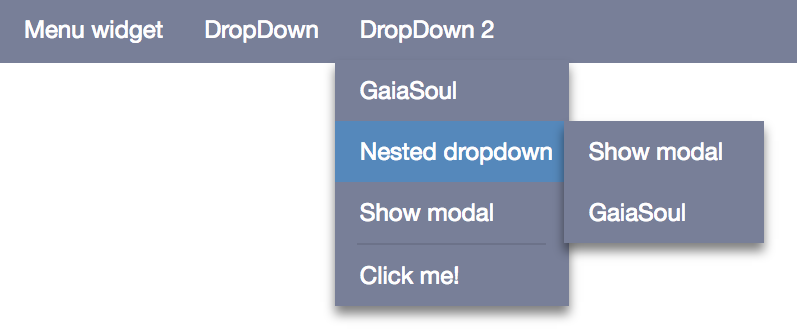
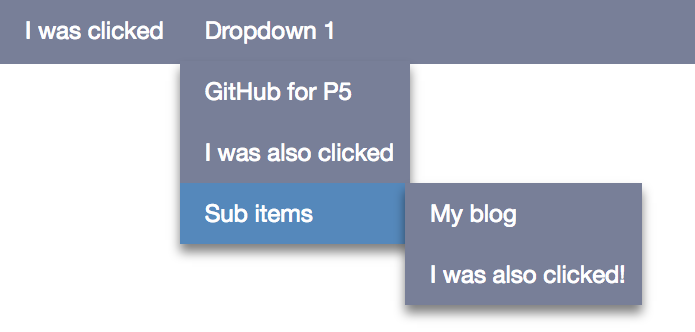
Better dox

diff --git a/README.md b/README.md
@@ -3,7 +3,7 @@
 Micro is a microscopic CSS framework. It can be used stand alone as a pure CSS framework, but is 
 also a perfect companion with [Phosphorus Five](https://github.com/polterguy/phosphorusfive). 
 It was created because of Bootstrap being too big, and other smaller framework not having the 
-necessary features, and most of the CSS framework were too JavaScript centric - Including Bootstrap.
+necessary features. Most of the existing CSS framework were also too JavaScript centric - Including Bootstrap.
 
 **Notice**, Micro does *not* mix well with Bootstrap, which among other things implies that
 none of these examples can be seen very well in System42's Executor. If you wish to reproduce
@@ -14,8 +14,8 @@ Micro creates a default layout, not based upon CSS classes for the most parts, w
 mix well with other CSS frameworks, such as e.g. Bootstrap. It is tiny in size, and contains most
 of the widgets you'll need in your day to day work with Phosphorus Five. It contains 2 CSS files.
 
-* _"/micro/media/main.css"_ Styles most common elements, such as buttons, checkboxes, etc.
-* _"/micro/media/ext.css"_ Styles the extension widgets, such as the modal widget, tab widget, etc.
+* _"/micro/media/main.css"_ - Styles most common elements, such as buttons, checkboxes, etc.
+* _"/micro/media/ext.css"_ - Styles the extension widgets, such as the modal widget, tab widget, etc.
 
 ## General layout
 
@@ -24,6 +24,8 @@ to them. This means that it becomes tiny, while at the same time, leaving the de
 Below is a screenshot of what you may expect.
 
 ![alt screenshot](screenshots/screenshot-1.png)
+
+As you can see, there are no fancy fonts, and little layout in general, since Micro only solves the bare minimum expected from every page you create - Leaving the rest up to you to explicitly solve as you wish. This implies that it doesn't _"end up as much in your way"_, as you apply your own custom design to your site, as you see fit. This trait of Micro also results in a __tiny__ bandwidth consumption.
 
 In addition to a general sane default styling of your HTML elements, most form HTML elements also have some styling for you, that
 will create a sane starting ground for your web apps. Below is another screenshot showing you what you may expect.
@@ -36,7 +38,7 @@ also obviously be instantiated as stand-alone elements.
 The color profile of Miro is easily overridden by changing a couple of CSS variables, allowing you to change the colors of all elements,
 by changing only a handful of variables.
 
-### Grid system
+## Grid system
 
 Micro has its own grid system based upon the _"flexbox"_ model. This means among other things, that you can create as many or as few
 columns as you wish in your page. Below is some example code that will create two rows, with a different set of columns each.
@@ -78,12 +80,12 @@ total available width, according to how many columns you add to a specific row.
 The _"container"_ element will have a maximum width of 1120px and automatic margins to the left and right. The _"container-fullscreen"_ will 
 use all available width. You can have as many containers as you wish on your page, and as many rows as you wish inside of each container.
 
-#### Responsive rendering
+### Responsive rendering
 
 Micro does feature _"responsive rendering"_, which means that if your screen resolution drops below 800px, each column, regardless of its definition,
 will automatically pop out, and require 100% of the available width. Micro is created with the _"mobile first"_ approach.
 
-#### Explicit column width
+### Explicit column width
 
 You can also explicitly set a column's width, with one of the following CSS classes.
 
@@ -122,7 +124,7 @@ create-widget
 
 The total width of your columns must result in 100. If it exceeds 100, it will wrap the next column unto the next line.
 
-### Form elements
+## Form elements
 
 Most form elements can simply be instantiated, without any CSS classes associated with them, and they will render with the style
 associated with them correctly. If you wish, you can also add any form elements inside of a _"strip"_, which will make all
@@ -160,140 +162,6 @@ create-widget
 The above will result in something resembling the following.
 
 ![alt screenshot](screenshots/screenshot-3.png)
-
-## Menu navbar navigation
-
-Micro will create CSS rules for the _"nav"_ element, allowing you to easily create a menu or navigation menu for your pages. Notice, you'll need
-to include _"ext.css"_ for the navbar to be rendered correctly. This allows you to create responsive menus for your page. Below is an example.
-
-```
-p5.web.include-css-file:@MICRO/media/main.css
-p5.web.include-css-file:@MICRO/media/ext.css
-
-create-widget:content-menu
-  class:container-fullscreen
-  widgets
-    nav:navbar
-      widgets
-        a
-          href:#
-          role:button
-          innerValue:=
-          onclick
-
-            /*
-             * Toggling expanded class on main navbar element.
-             */
-            get-widget-property:navbar
-              class
-            if:x:/@get-widget-property/*/*?value
-              =:expanded
-              delete-widget-property:navbar
-                class
-            else
-              set-widget-property:navbar
-                class:expanded
-        ul
-          widgets
-            li
-              widgets
-                a
-                  role:button
-                  href:#
-                  innerValue:Menu widget
-                  onclick
-            li
-              widgets
-                a
-                  role:button
-                  href:#
-                  innerValue:DropDown
-                  onclick:"event.stopPropagation();return false;"
-                ul
-                  widgets
-                    li
-                      widgets
-                        a
-                          href:"https://github.com/polterguy/phosphorusfive"
-                          innerValue:Phosphorus Five
-            li
-              widgets
-                a
-                  role:button
-                  href:#
-                  innerValue:DropDown 2
-                  onclick:"event.stopPropagation();return false;"
-                ul
-                  widgets
-                    li
-                      widgets
-                        a
-                          href:"https://gaiasoul.com"
-                          innerValue:GaiaSoul
-                    li
-                      widgets
-                        a
-                          href:#
-                          role:button
-                          innerValue:Nested dropdown
-                          onclick:"event.stopPropagation();return false;"
-                        ul
-                          widgets
-                            li
-                              widgets
-                                a
-                                  href:#
-                                  role:button
-                                  innerValue:Show modal
-                                  onclick
-                            li
-                              widgets
-                                a
-                                  href:"https://gaiasoul.com"
-                                  innerValue:GaiaSoul
-                    li
-                      widgets
-                        a
-                          role:button
-                          href:#
-                          innerValue:Show modal
-                          onclick
-                    li
-                      widgets
-                        hr
-                    li
-                      widgets
-                        a
-                          role:button
-                          href:#
-                          innerValue:Click me!
-                          onclick
-                            set-widget-property:x:/../*/_event?value
-                              innerValue:I was clicked
-```
-
-The above will result in something like the following.
-
-![alt screenshot](screenshots/screenshot-4.png)
-
-Notice, a nav element will also render responsively, which means that if the resolution for your screen is reduced below 800px,
-it will end up looking like the following.
-
-![alt screenshot](screenshots/screenshot-5.png)
-
-If you toggle the above "hamburger" element, the same menu as above will look like this.
-
-![alt screenshot](screenshots/screenshot-6.png)
-
-Notice, the navbar element in Micro, relies upon hover effects for clients with more than 800px in width. This might not
-always be the type of logic you need, but will work correctly for most sites, where you need responsive rendering, for both desktop
-clients, and (most) mobile clients. If this becomes a problem though, you can easily trap **[onclick]** on your dropdown widgets,
-and explicitly show the associated _"ul"_ element for its children menu items. This would only be a problem with touch screen
-devices, which does not post focus correctly, and have a screen resolution above 800px.
-
-To create a manu/navbar by "hand" as we do above, is also quite verbose. If you wish, you could easily create an Active Events, simply
-taking your items, either with a **[url]** property or an **[onclick]** event handler. This would easily reduce its amount of code
-by 70-90 percent. This is left as an exercise for you though.
 
 ## Extension widgets
 
@@ -385,20 +253,91 @@ tab views will not be perfectly aligned with the rest of the content on your pag
 
 Below is a screenshot of how the above code will end up appearing on your site.
 
-![alt screenshot](screenshots/screenshot-8.png)
+![alt screenshot](screenshots/screenshot-6.png)
+
+### [micro.widgets.menu]
+
+Although you could create a "nav" element in Micro by hand, Micro also contains one helper Active Event extension widget for you, that easily allows you to create Ajax and/or hyperlinks menus. A menu must have exactly one **[items]** collection. Each child node beneath your items, becomes a menu item. Each menu
+item, can either have an **[onclick]** for Ajax callbacks, an **[href]** for URL navigation, or its own child **[items]** collection. You should
+in general not combine these, but choose only one for a single menu item.
+
+The name of your child node beneath your **[items]** collection, becomes the friendly name displayed to the user. The value is an optional
+explicit ID for the actual anchor element of your menu. Below is an example of creating a menu.
+
+```
+create-widget:content-menu
+  class:container-fullscreen
+  events
+  widgets
+    micro.widgets.menu
+      items
+        Click me
+          onclick
+            set-widget-property:x:/../*/_event?value
+              innerValue:I was clicked
+        Dropdown 1
+          items
+            GitHub for P5
+              href:"https://github.com/polterguy/phosphorusfive"
+              target:_blank
+            Click me to!:some-item
+              onclick
+                set-widget-property:some-item
+                  innerValue:I was also clicked
+            Sub items
+              items
+                My blog
+                  href:"https://gaiasoul.com"
+                  target:_blank
+                Click me three!
+                  onclick
+                    set-widget-property:x:/../*/_event?value
+                      innerValue:I was also clicked!
+```
+
+The above will result in something like the following
+![alt screenshot](screenshots/screenshot-4.png)
+
+You can combine URL menu items having an **[href]** argument, with other menu items having an **[onclick]** Ajax lambda callback. But you should
+not create menu items that have both of these constructs. All arguments besides from **[onclick]**, **[href]** and **[items]** becomes
+appended into the main anchor widget of your menu item. Above you can see an example of how we added a **[target]** attribute to our widget,
+which makes sure the page the menu item is linking to is opened up in another tab. To override the rendering of specific menu items, you could
+for instance add a **[class]** attribute, which would change the rendering of your anchor element, inside of your "li" widget.
+
+The menu will expand its items upon "hover", but for each item with a sub-menu, it can also explicitly be clicked, which will add an "expanded"
+CSS class to the "ul" element, forcing it to open, also for clients that doesn't handle the hover effect - Such as some tablets and smartphones.
+This implies that it is very friendly for clients running touch-screens and similar constructs.
+
+#### Responsive rendering
+
+If the client has less than 800px in width, the menu will collapse, and render a _"hamburger button"_, allowing you to explicitly expand the entire
+menu. This is useful for small devices, such as smartphones, etc. Below is a screenshot of the same menu we created above, except the client has
+been resized to illustrate how it will look like on smaller devices.
+
+![alt screenshot](screenshots/screenshot-5.png)
+
+The _"hamburger button"_ in the top right corner toggles the expansion of your menu.
 
 ## Performance
 
-Micro really is **microscopic**. Among other things, the total bandwidth usage of the kitchen sink example for its extension widgets
-is **21.5KB**. This includes all CSS and JavaScript on your page, in addition to the initial page load of your page in total. The number
+Micro really is **microscopic**. Among other things, the total bandwidth usage for the kitchen sink example for its extension widgets
+ticks in at roughly **25KB**. This includes all CSS and JavaScript on your page, in addition to the initial page load and HTML of your page in total. The number
 of HTTP requests is 4. Compare this to most other Ajax control vendors, who often have several megabytes of bandwidth in their initial
 rendering, and often hundreds of HTTP requests.
 
-In fact, also clicking every single widget on the kitchen sink example, triggering an Ajax callback to the server for each interaction,
-result in no more than **29.5KB** and **15 HTTP requests**. This includes toggling the menu, showing multiple modal windows, switching
-between tab views in the tab widget multiple times, etc.
-
 In general, Micro is at least 2 orders of magnitudes smaller in bandwidth consumption than literally anything else out there!
+
+To verify this for yourself, create a new lambda page in System42, set its "template" settings to "empty", and paste in the following code, which will show you the "kitchen sink" example.
+
+```
+sys42.utilities.execute-lambda-file:@MICRO/samples/ext.hl
+```
+
+See the screenshot below, demonstrating how Google Chrome's Network inspector shows you 21KB.
+
+![alt screenshot](screenshots/screenshot-8.png)
+
+In the above page, we have multiple modal widgets, multiple tab widgets, and a fairly complex menu. Still it ticks in at 21KB. Simply displaying the Ajax menu example for most other Ajax libraries, will often download megabytes of JavaScript, HTML and CSS.
 
 To see a video demonstrating some of its features, and the bandwidth consumption differences, you can 
 check out [this YouTube video](https://www.youtube.com/watch?v=amVnm5uHB1sg).
